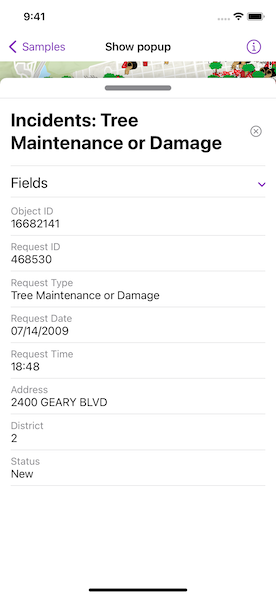
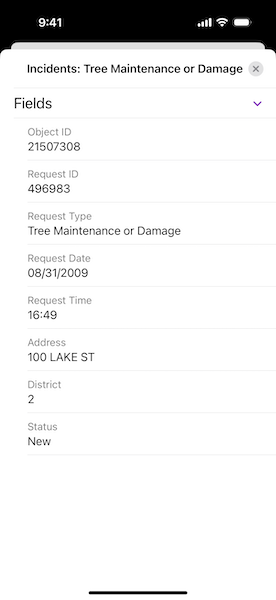
Remove deprecated PopupView init uses.

Changed region(s): [[0.0, 0.0, 1.0, 0.8141], [0.8986, 0.2111, 0.9565, 0.2412], [0.9275, 0.3015, 0.9565, 0.3317]]

diff --git a/Shared/Samples/Display clusters/DisplayClustersView.swift b/Shared/Samples/Display clusters/DisplayClustersView.swift
@@ -56,7 +56,6 @@ struct DisplayClustersView: View {
                     identifyScreenPoint = screenPoint
                 }
                 .task(id: identifyScreenPoint) {
-                    layer?.clearSelection()
                     geoElements.removeAll()
                     
                     guard let identifyScreenPoint,
@@ -79,32 +78,11 @@ struct DisplayClustersView: View {
                         layer.selectFeature(feature)
                     }
                 }
-                .floatingPanel(
-                    selectedDetent: .constant(.half),
-                    horizontalAlignment: .leading,
-                    isPresented: $showsPopup
-                ) { [popup] in
-                    PopupView(popup: popup!, isPresented: $showsPopup)
-                        .padding([.top, .horizontal])
-                    
-                    if !geoElements.isEmpty {
-                        List {
-                            Section {
-                                ForEach(Array(geoElements.enumerated()),
-                                        id: \.offset
-                                ) { offset, geoElement in
-                                    let name = geoElement.attributes["name"] as? String
-                                    Text(name ?? "Geoelement: \(offset)")
-                                }
-                            } header: {
-                                Text("Geoelements")
-                                    .font(.title3)
-                                    .bold()
-                                    .foregroundStyle(.primary)
-                            }
-                        }
-                        .listStyle(.inset)
-                    }
+                .popover(isPresented: $showsPopup, attachmentAnchor: .point(.bottom)) { [popup] in
+                    ClusterDetailView(popup: popup!, geoElements: geoElements)
+                        .presentationDetents([.fraction(0.5)])
+                        .frame(idealWidth: 320, idealHeight: 380)
+                        .onDisappear(perform: layer?.clearSelection)
                 }
                 .toolbar {
                     ToolbarItem(placement: .bottomBar) {
@@ -127,6 +105,60 @@ struct DisplayClustersView: View {
                     }
                 }
                 .errorAlert(presentingError: $error)
+        }
+    }
+}
+
+/// A  view that displays the details of a cluster.
+private struct ClusterDetailView: View {
+    /// The cluster's popup to display.
+    let popup: Popup
+    
+    /// The cluster's geoelements to display.
+    let geoElements: [GeoElement]
+    
+    /// The action to dismiss the view.
+    @Environment(\.dismiss) private var dismiss
+    
+    /// A Boolean value indicating whether the popup is currently being shown in the view.
+    @State private var popupIsSelectedTab = true
+    
+    var body: some View {
+        NavigationStack {
+            Group {
+                if popupIsSelectedTab {
+                    PopupView(root: popup)
+                } else {
+                    List(Array(geoElements.enumerated()), id: \.offset) { offset, geoElement in
+                        let name = geoElement.attributes["name"] as? String
+                        Text(name ?? "Geoelement: \(offset)")
+                    }
+                    .listStyle(.inset)
+                    .navigationTitle("Geoelements")
+                    .navigationBarTitleDisplayMode(.inline)
+                    .overlay {
+                        if geoElements.isEmpty {
+                            ContentUnavailableView(
+                                "No Geoelements",
+                                systemImage: "list.bullet",
+                                description: Text("There are no aggregate geoelements for this cluster.")
+                            )
+                        }
+                    }
+                }
+            }
+            .toolbar {
+                ToolbarItem(placement: .confirmationAction) {
+                    Button("Done") { dismiss() }
+                }
+                ToolbarItem(placement: .bottomBar) {
+                    Picker("Tab", selection: $popupIsSelectedTab) {
+                        Text("Popup").tag(true)
+                        Text("Geoelements").tag(false)
+                    }
+                    .pickerStyle(.segmented)
+                }
+            }
         }
     }
 }

diff --git a/Shared/Samples/Set up location-driven geotriggers/SetUpLocationDrivenGeotriggersView.swift b/Shared/Samples/Set up location-driven geotriggers/SetUpLocationDrivenGeotriggersView.swift
@@ -98,23 +98,16 @@ struct SetUpLocationDrivenGeotriggersView: View {
                         isShowingPopup = true
                     }
                     .disabled(!model.hasCurrentSection)
-                    .opacity(isShowingPopup ? 0 : 1)
                     
                     Button("Point of Interest") {
                         model.setPOIPopup()
                         isShowingPopup = true
                     }
                     .disabled(!model.hasPointOfInterest)
-                    .opacity(isShowingPopup ? 0 : 1)
                 }
             }
-            .floatingPanel(
-                selectedDetent: .constant(.full),
-                horizontalAlignment: .leading,
-                isPresented: $isShowingPopup
-            ) {
-                PopupView(popup: model.popup!, isPresented: $isShowingPopup)
-                    .padding()
+            .sheet(isPresented: $isShowingPopup) {
+                PopupView(root: model.popup!, isPresented: $isShowingPopup)
             }
             .task(id: isShowingPopup) {
                 if isShowingPopup {

diff --git a/Shared/Samples/Configure clusters/ConfigureClustersView.swift b/Shared/Samples/Configure clusters/ConfigureClustersView.swift
@@ -47,13 +47,10 @@ struct ConfigureClustersView: View {
                         showsPopup = popup != nil
                     }
                 }
-                .floatingPanel(
-                    selectedDetent: .constant(.half),
-                    horizontalAlignment: .leading,
-                    isPresented: $showsPopup
-                ) { [popup] in
-                    PopupView(popup: popup!, isPresented: $showsPopup)
-                        .padding()
+                .popover(isPresented: $showsPopup, attachmentAnchor: .point(.bottom)) { [popup] in
+                    PopupView(root: popup!, isPresented: $showsPopup)
+                        .presentationDetents([.fraction(0.5)])
+                        .frame(idealWidth: 320, idealHeight: 300)
                 }
                 .toolbar {
                     ToolbarItem(placement: .bottomBar) {

diff --git a/Shared/Samples/Show popup/ShowPopupView.swift b/Shared/Samples/Show popup/ShowPopupView.swift
@@ -51,13 +51,9 @@ struct ShowPopupView: View {
                     self.popup = identifyResult.first?.popups.first
                     self.showPopup = self.popup != nil
                 }
-                .floatingPanel(
-                    selectedDetent: .constant(.full),
-                    horizontalAlignment: .leading,
-                    isPresented: $showPopup
-                ) { [popup] in
-                    PopupView(popup: popup!, isPresented: $showPopup)
-                        .padding()
+                .popover(isPresented: $showPopup, attachmentAnchor: .point(.top)) { [popup] in
+                    PopupView(root: popup!, isPresented: $showPopup)
+                        .frame(idealWidth: 320, idealHeight: 600)
                 }
         }
     }
